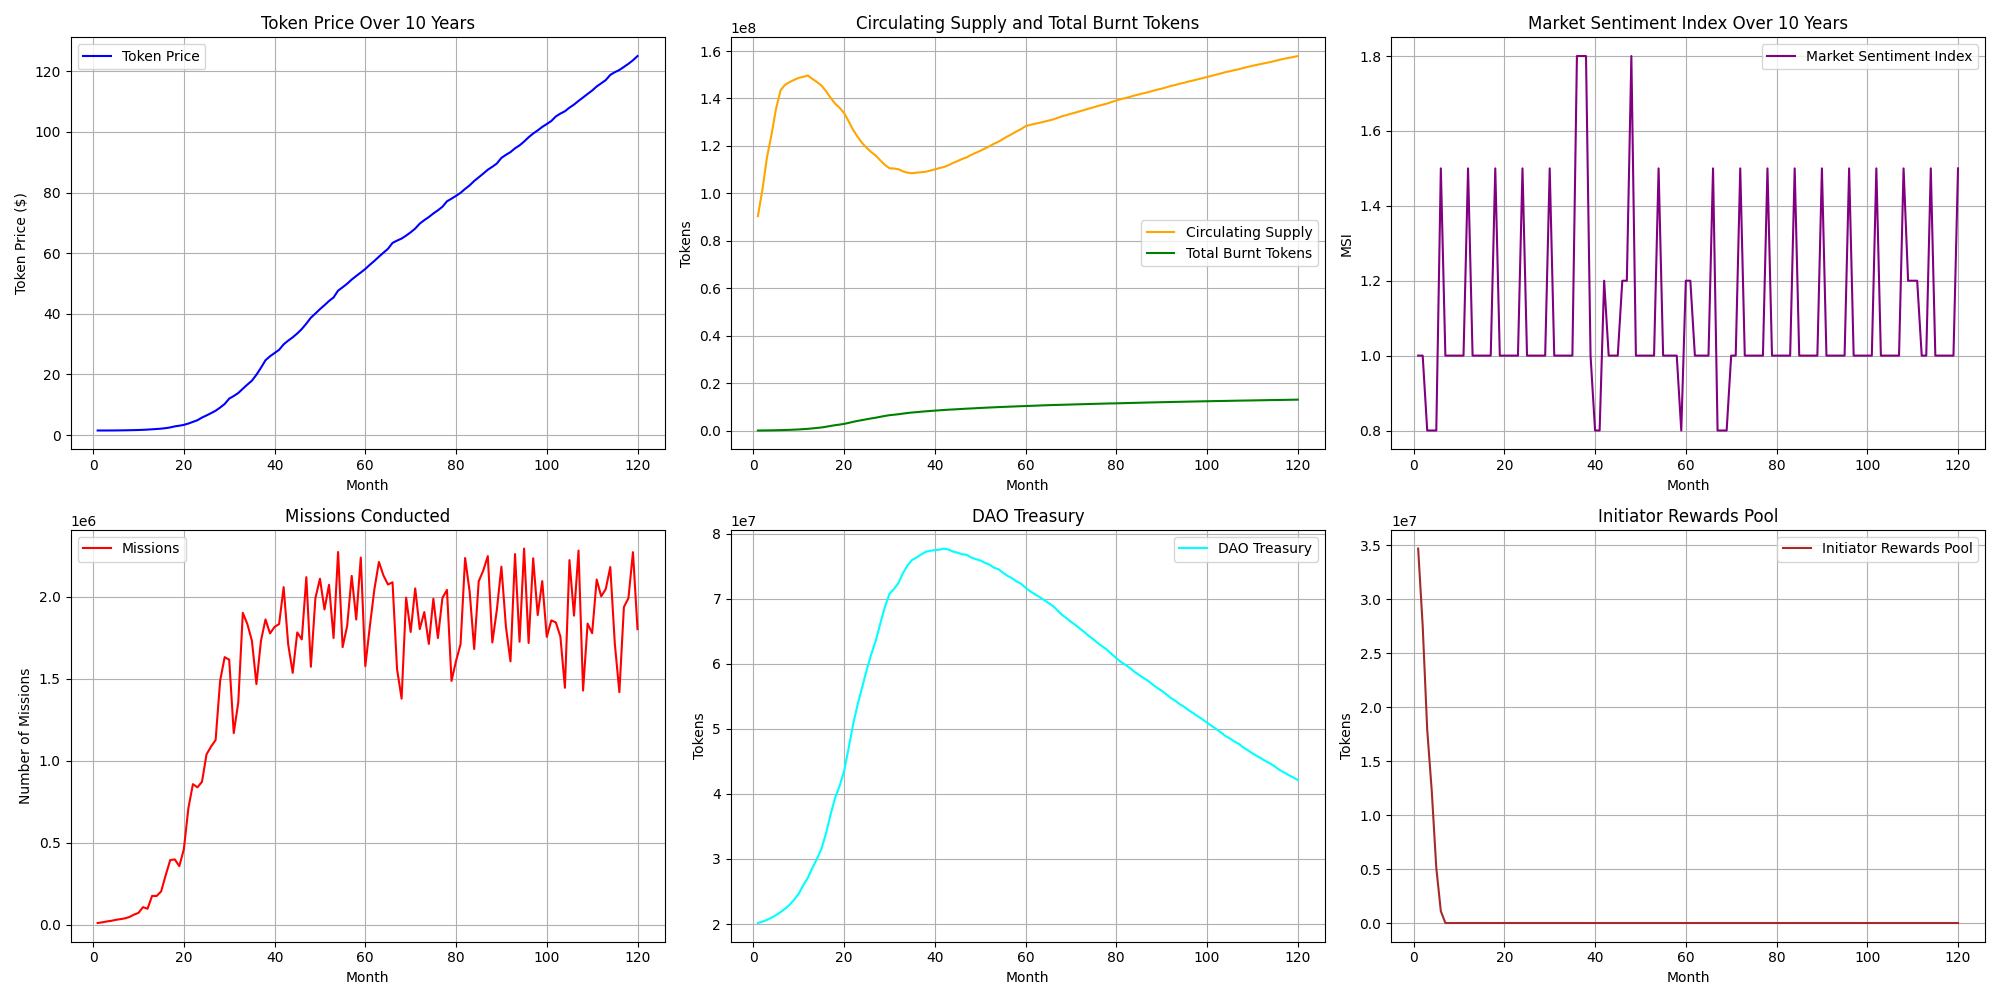
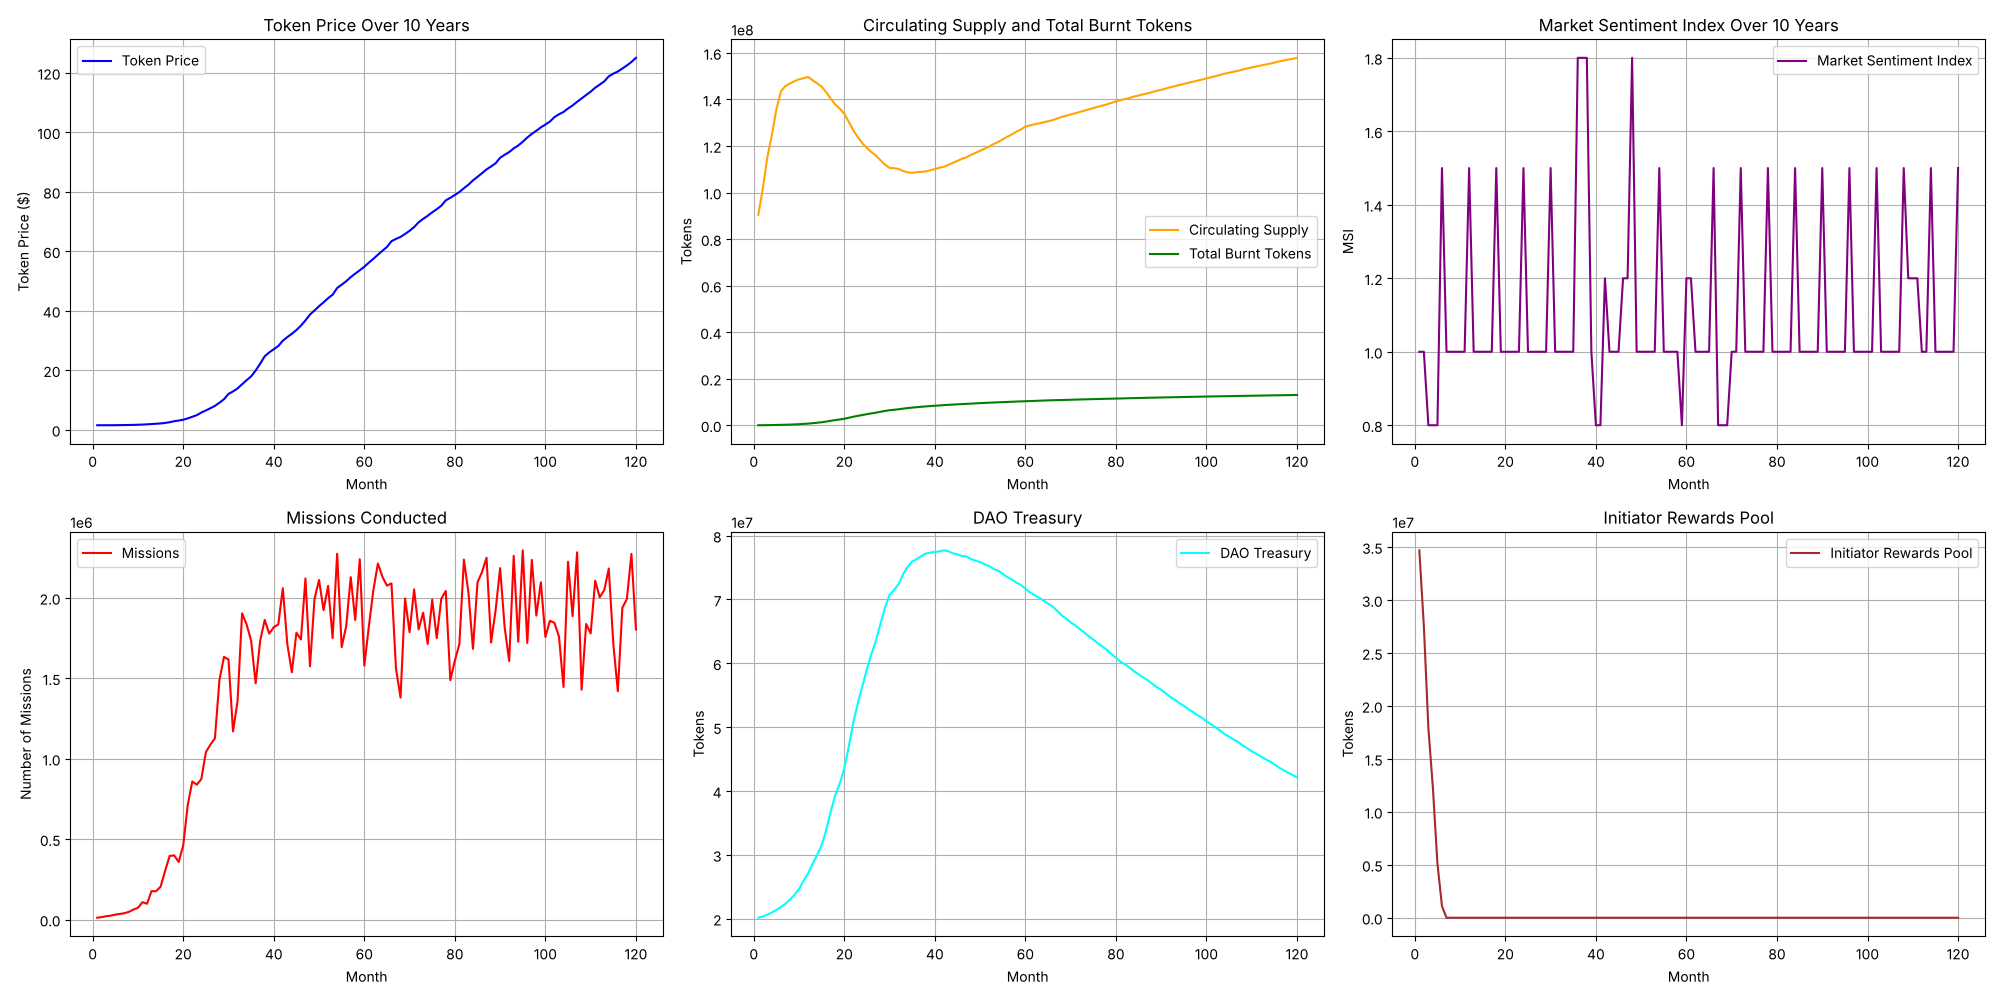
Fix Pillow CVEs, update deps, add simple CLI, refresh README
- Bump pillow 12.3.0 -> 13.0.0 (fixes CVE-2026-112400 and ~20 other
  advisories reported by pip-audit) and update all other pinned deps.
- main.py: optional CLI flags (--years, --seed, --config, --output,
  --no-plot) and a friendly error for invalid configs.
- CI: test on Python 3.13 too; pip-audit the dev requirements.
- Add Dependabot config for weekly pip and GitHub Actions updates.
- Rewrite README around a quick start and usage examples; drop the
  stale version table.
- Regenerate sample charts with the updated libraries.

Claude-Session: https://claude.ai/code/session_01JDd2Vx94bTxyWGwBKqpSmV

diff --git a/main.py b/main.py
@@ -8,9 +8,12 @@ horizon, writes per-horizon CSV data and a 6-panel plot into ``results/``, and
 prints a short summary for each run.
 
 Usage:
-    python main.py
+    python main.py                       # defaults from config.json
+    python main.py --years 5 --seed 7    # override horizons / seed
+    python main.py --help                # all options
 """
 
+import argparse
 import json
 import os
 import sys
@@ -22,11 +25,12 @@ import matplotlib
 matplotlib.use("Agg")
 # pylint: disable=wrong-import-position
 import matplotlib.pyplot as plt  # noqa: E402
-from simulation import simulate  # noqa: E402
+from simulation import _validate_config, simulate  # noqa: E402
 # pylint: enable=wrong-import-position
 
 DEFAULT_CONFIG_PATH = "config.json"
 DEFAULT_RESULTS_DIR = "results"
+DEFAULT_YEARS = (3, 5, 10)
 
 # Subplot layout: (column, title, y-axis label, [(series, colour), ...]).
 PLOT_PANELS = (
@@ -97,7 +101,10 @@ def summarize(df, years):
 def _print_summary(summary):
     """Print a human-readable summary block for a single run."""
     years = summary["years"]
-    print(f"\n--- \033[7;32mInterpretation after {years} years\033[0m ---")
+    title = f"Interpretation after {years} years"
+    if sys.stdout.isatty():
+        title = f"\033[7;32m{title}\033[0m"
+    print(f"\n--- {title} ---")
     print(f"Final Token Price: ${summary['final_price']:.2f}")
     print(f"Final Total Supply: {summary['final_total_supply']:,.2f} tokens")
     print(f"Final Circulating Supply: {summary['final_circulating_supply']:,.2f} tokens")
@@ -106,17 +113,18 @@ def _print_summary(summary):
     print("----------------------------------------")
 
 
-def run_all(config, results_dir=DEFAULT_RESULTS_DIR):
-    """Run every configured horizon, writing CSV + plots, and return summaries."""
+def run_all(config, results_dir=DEFAULT_RESULTS_DIR, plot=True):
+    """Run every configured horizon, writing CSV (+ plots), and return summaries."""
     os.makedirs(results_dir, exist_ok=True)
     summaries = []
-    months_per_year = config["months_per_year"]
-    for years in config["simulation_years"]:
+    months_per_year = config.get("months_per_year", 12)
+    for years in config.get("simulation_years", DEFAULT_YEARS):
         df = simulate(years * months_per_year, config)
 
         csv_filename = os.path.join(results_dir, f"simulation_data_{years}yrs.csv")
         df.to_csv(csv_filename, index=False)
-        plot_results(df, years, results_dir)
+        if plot:
+            plot_results(df, years, results_dir)
 
         if df.empty:
             continue
@@ -124,11 +132,54 @@ def run_all(config, results_dir=DEFAULT_RESULTS_DIR):
     return summaries
 
 
-def main():
+def parse_args(argv=None):
+    """Parse command-line options (all optional; defaults come from the config)."""
+    parser = argparse.ArgumentParser(
+        description="Run the $POLN tokenomics simulation.",
+    )
+    parser.add_argument(
+        "-c", "--config", default=DEFAULT_CONFIG_PATH,
+        help=f"path to the JSON config file (default: {DEFAULT_CONFIG_PATH})",
+    )
+    parser.add_argument(
+        "-y", "--years", type=int, nargs="+", metavar="N",
+        help="horizon(s) to simulate in years, e.g. --years 3 5 10 "
+             "(default: simulation_years from the config)",
+    )
+    parser.add_argument(
+        "-s", "--seed", type=int,
+        help="random seed for a reproducible run (default: random_seed from the config)",
+    )
+    parser.add_argument(
+        "-o", "--output", default=DEFAULT_RESULTS_DIR,
+        help=f"directory for CSV and PNG results (default: {DEFAULT_RESULTS_DIR})",
+    )
+    parser.add_argument(
+        "--no-plot", action="store_true",
+        help="skip PNG charts (write CSV data and print the summary only)",
+    )
+    args = parser.parse_args(argv)
+    if args.years and any(years < 1 for years in args.years):
+        parser.error("--years values must be positive integers")
+    return args
+
+
+def main(argv=None):
     """Execute the tokenomics simulation and handle output."""
-    config = load_config()
-    for summary in run_all(config):
+    args = parse_args(argv)
+    config = load_config(args.config)
+    if args.years:
+        config["simulation_years"] = args.years
+    if args.seed is not None:
+        config["random_seed"] = args.seed
+    try:
+        _validate_config(config)
+    except ValueError as exc:
+        raise SystemExit(f"Invalid configuration in {args.config}: {exc}") from exc
+
+    for summary in run_all(config, args.output, plot=not args.no_plot):
         _print_summary(summary)
+    print(f"\nResults written to {os.path.abspath(args.output)}")
 
 
 if __name__ == "__main__":

diff --git a/tests/test_main.py b/tests/test_main.py
@@ -98,5 +98,57 @@ def test_main_smoke(tmp_path, monkeypatch):
     (tmp_path / "config.json").write_text(json.dumps(config), encoding="utf-8")
     monkeypatch.chdir(tmp_path)
 
-    assert main.main() is None
+    assert main.main([]) is None
     assert (tmp_path / "results" / "simulation_data_1yrs.csv").exists()
+
+
+# --------------------------------------------------------------------------- #
+# Command-line options
+# --------------------------------------------------------------------------- #
+def _write_config(tmp_path, **overrides):
+    config = json.loads(CONFIG_PATH.read_text(encoding="utf-8"))
+    config.update(overrides)
+    path = tmp_path / "custom.json"
+    path.write_text(json.dumps(config), encoding="utf-8")
+    return path
+
+
+def test_parse_args_defaults():
+    args = main.parse_args([])
+    assert args.config == main.DEFAULT_CONFIG_PATH
+    assert args.output == main.DEFAULT_RESULTS_DIR
+    assert args.years is None and args.seed is None and not args.no_plot
+
+
+def test_parse_args_rejects_non_positive_years(capsys):
+    with pytest.raises(SystemExit):
+        main.parse_args(["--years", "0"])
+    assert "positive" in capsys.readouterr().err
+
+
+def test_main_cli_overrides(tmp_path, capsys):
+    cfg = _write_config(tmp_path, simulation_years=[10])
+    out_dir = tmp_path / "out"
+    main.main(["-c", str(cfg), "-y", "1", "2", "-s", "7", "-o", str(out_dir), "--no-plot"])
+    assert (out_dir / "simulation_data_1yrs.csv").exists()
+    assert (out_dir / "simulation_data_2yrs.csv").exists()
+    assert not (out_dir / "simulation_data_10yrs.csv").exists()
+    assert not list(out_dir.glob("*.png"))
+    out = capsys.readouterr().out
+    assert "after 2 years" in out
+    assert "Results written to" in out
+
+
+def test_main_seed_is_reproducible(tmp_path):
+    cfg = _write_config(tmp_path)
+    first, second = tmp_path / "a", tmp_path / "b"
+    for out_dir in (first, second):
+        main.main(["-c", str(cfg), "-y", "1", "-s", "99", "-o", str(out_dir), "--no-plot"])
+    name = "simulation_data_1yrs.csv"
+    assert (first / name).read_text() == (second / name).read_text()
+
+
+def test_main_invalid_config_is_friendly(tmp_path):
+    cfg = _write_config(tmp_path, total_supply=0)
+    with pytest.raises(SystemExit, match="Invalid configuration"):
+        main.main(["-c", str(cfg), "-o", str(tmp_path / "out")])

diff --git a/README.md b/README.md
@@ -2,86 +2,83 @@
 
 [![CI](https://github.com/fairhive-labs/tokenomics-simulation/actions/workflows/ci.yml/badge.svg)](https://github.com/fairhive-labs/tokenomics-simulation/actions/workflows/ci.yml)
 
-A Monte Carlo simulation of the **$POLN** token economy. Models token price dynamics, circulating supply, burn mechanics, staking, mission growth, DAO treasury flows, vesting schedules, and market sentiment over configurable time horizons (3, 5, 10 years).
+A Monte Carlo simulation of the **$POLN** token economy: token price, circulating
+supply, burns, staking, mission growth, vesting, DAO treasury and market sentiment,
+month by month, over the horizons you choose (3, 5 and 10 years by default).
 
-## How It Works
+## Quick start
 
-The simulation runs a month-by-month loop that:
-
-1. **Generates missions** using logistic growth with seasonal adjustments and random fluctuations
-2. **Processes protocol fees** — staking, burning (on failed missions), and distributing to fellowship members
-3. **Vests tokens** across builders, private sale investors, testnet partners, and initiator rewards (with halving)
-4. **Adjusts token price** based on net demand/supply ratio, market sentiment (bull/bear/normal), and roadmap milestones
-5. **Tracks DAO treasury** consumption over time
-
-All parameters are defined in `config.json`. Each run produces CSV data and plots in `results/`.
-
-## Installation
+Requires Python 3.11 or newer.
 
 ```bash
 git clone https://github.com/fairhive-labs/tokenomics-simulation.git
 cd tokenomics-simulation
-python -m venv venv
-source venv/bin/activate  # Windows: venv\Scripts\activate
+python -m venv venv && source venv/bin/activate   # Windows: venv\Scripts\activate
 pip install -r requirements.txt
-```
-
-### Requirements
-
-| Package | Version |
-|---|---|
-| contourpy | 1.3.3 |
-| cycler | 0.12.1 |
-| fonttools | 4.62.1 |
-| kiwisolver | 1.5.0 |
-| matplotlib | 3.10.8 |
-| numpy | 2.4.4 |
-| packaging | 26.0 |
-| pandas | 3.0.2 |
-| pillow | 12.3.0 |
-| pyparsing | 3.3.2 |
-| python-dateutil | 2.9.0.post0 |
-| pytz | 2026.1.post1 |
-| six | 1.17.0 |
-| tzdata | 2026.1 |
-
-## Usage
-
-### Configure
-
-Edit `config.json` to adjust simulation parameters (see [Parameters](#parameters) below).
-
-### Run
-
-```bash
 python main.py
 ```
 
-### Results
+You get a summary in the terminal, plus a CSV and a chart per horizon in `results/`.
 
-Output goes to `results/`:
-- `simulation_data_{N}yrs.csv` — monthly data for each time horizon
-- `simulation_{N}yrs.png` — 6-panel plot (token price, supply & burn, market sentiment, missions, DAO treasury, initiator rewards)
+## Usage
 
-## Sample Output
+Every option is optional. Without any, the values in `config.json` are used.
 
-### 3-Year Simulation
+| Option | What it does | Default |
+|---|---|---|
+| `-y`, `--years N [N ...]` | Horizon(s) to simulate, in years | `simulation_years` in the config |
+| `-s`, `--seed N` | Random seed (same seed = same result) | `random_seed` in the config |
+| `-c`, `--config PATH` | Use another config file | `config.json` |
+| `-o`, `--output DIR` | Where to write CSV and PNG files | `results` |
+| `--no-plot` | Skip the charts (CSV and summary only) | off |
+| `-h`, `--help` | Show the help | |
+
+Examples:
+
+```bash
+python main.py --years 5                  # a single 5-year run
+python main.py --seed 7 --output runs/s7  # another random scenario, in its own folder
+python main.py -c my-scenario.json        # your own parameters
+python main.py --years 1 2 3 --no-plot    # quick runs, data only
+```
+
+To explore a scenario, copy `config.json`, change the values (see
+[Parameters](#parameters)), and pass it with `-c`. Set `random_seed` to `null`
+for a different random run each time. Invalid configs are reported with a clear
+error message.
+
+### Outputs
+
+For each horizon `N`, in the output folder:
+
+- `simulation_data_{N}yrs.csv`: one row per month (price, supply, burns, staking,
+  missions, DAO treasury, rewards, sentiment, ...)
+- `simulation_{N}yrs.png`: 6 charts (token price, supply and burns, market
+  sentiment, missions, DAO treasury, initiator rewards pool)
+
+## How it works
+
+Each simulated month:
+
+1. **Missions** grow along a logistic curve, with seasonality and random noise.
+2. **Protocol fees** are staked, burnt (on failed missions) or distributed to fellowship members.
+3. **Vesting** releases tokens to builders, private-sale investors, testnet partners and initiators (rewards halve as the pool depletes).
+4. **Price** moves with net demand vs. supply, market sentiment (bull/bear/normal) and roadmap milestones, capped at ±20% per month.
+5. **DAO treasury** is spent at a yearly rate once consumption starts.
+
+## Sample output
+
+### 3 years
 
 ![3-year simulation](results/simulation_3yrs.png)
 
-Short-term view showing early mission growth ramp-up, initial token vesting effects, and price discovery phase.
-
-### 5-Year Simulation
+### 5 years
 
 ![5-year simulation](results/simulation_5yrs.png)
 
-Mid-term view capturing the full logistic growth S-curve, reward halving events, and DAO treasury drawdown kicking in.
-
-### 10-Year Simulation
+### 10 years
 
 ![10-year simulation](results/simulation_10yrs.png)
-
-Long-term view showing mission saturation at carrying capacity, circulating supply stabilization, cumulative burn impact, and sustained market sentiment cycles.
 
 ## Parameters
 
@@ -163,53 +160,26 @@ Rewards halve as the pool depletes, with a floor at `minimum_reward_per_mission`
 
 ## Development
 
-Install the runtime and tooling dependencies, then run the quality gate:
-
 ```bash
 pip install -r requirements-dev.txt
 
-pytest                       # unit tests + coverage (fails under 90%)
-pylint simulation.py main.py # lint
-bandit -r simulation.py main.py  # security scan
-pip-audit -r requirements.txt    # dependency vulnerability audit
+pytest                             # tests + coverage (must stay at or above 90%)
+pylint simulation.py main.py       # lint
+bandit -r simulation.py main.py    # security scan
+pip-audit -r requirements-dev.txt  # known-vulnerability check on dependencies
 ```
 
-The same checks run in CI (`.github/workflows/ci.yml`) on Python 3.11 and 3.12.
-The simulation is deterministic under a fixed `random_seed`, so tests assert
-exact reproducibility. Runs are driven by `numpy`'s `Generator` (seedable and
-free of the insecure-PRNG static-analysis warning).
-
-## Notes on Model Corrections
-
-This release corrects a few modelling issues from earlier versions:
-
-- **Testnet vesting** now releases a fixed linear tranche computed from the
-  initial allocation, so testnet tokens fully distribute over their window
-  (previously the tranche was recomputed on the shrinking balance, decaying
-  exponentially and never fully vesting).
-- **Reward halving** is evaluated every month rather than only in months with
-  missions.
-- **Private-sale accounting** is consistent between supply-clamping steps
-  (zero-vesting rounds are counted as liquid once, not double-counted).
-
-Because of these fixes and seed-based determinism, numeric outputs differ from
-pre-1.0 runs.
+CI runs the same checks on Python 3.11, 3.12 and 3.13. Dependabot opens weekly
+PRs for Python packages and GitHub Actions, so security fixes land quickly.
 
 ## Disclaimer
 
-This simulation is a modeling tool for exploring PoLN tokenomics scenarios. Results are estimates based on configurable assumptions and stochastic processes — they should not be used as the sole basis for financial decisions.
-
-## Contributing
-
-1. Fork the repo
-2. Create a feature branch (`git checkout -b feature/your-feature`)
-3. Commit and push your changes
-4. Open a Pull Request
+This is a modelling tool for exploring PoLN tokenomics scenarios. Results are
+estimates based on configurable assumptions and random processes. Do not use
+them as the sole basis for financial decisions.
 
 ## License
 
-[MIT](LICENSE) - fairhive-labs
-
-## Contact
-
-Questions or issues? [Open an issue](https://github.com/fairhive-labs/tokenomics-simulation/issues) or email <contact@poln.org>.
+[MIT](LICENSE), fairhive-labs. Questions or issues:
+[open an issue](https://github.com/fairhive-labs/tokenomics-simulation/issues)
+or email <contact@poln.org>.
